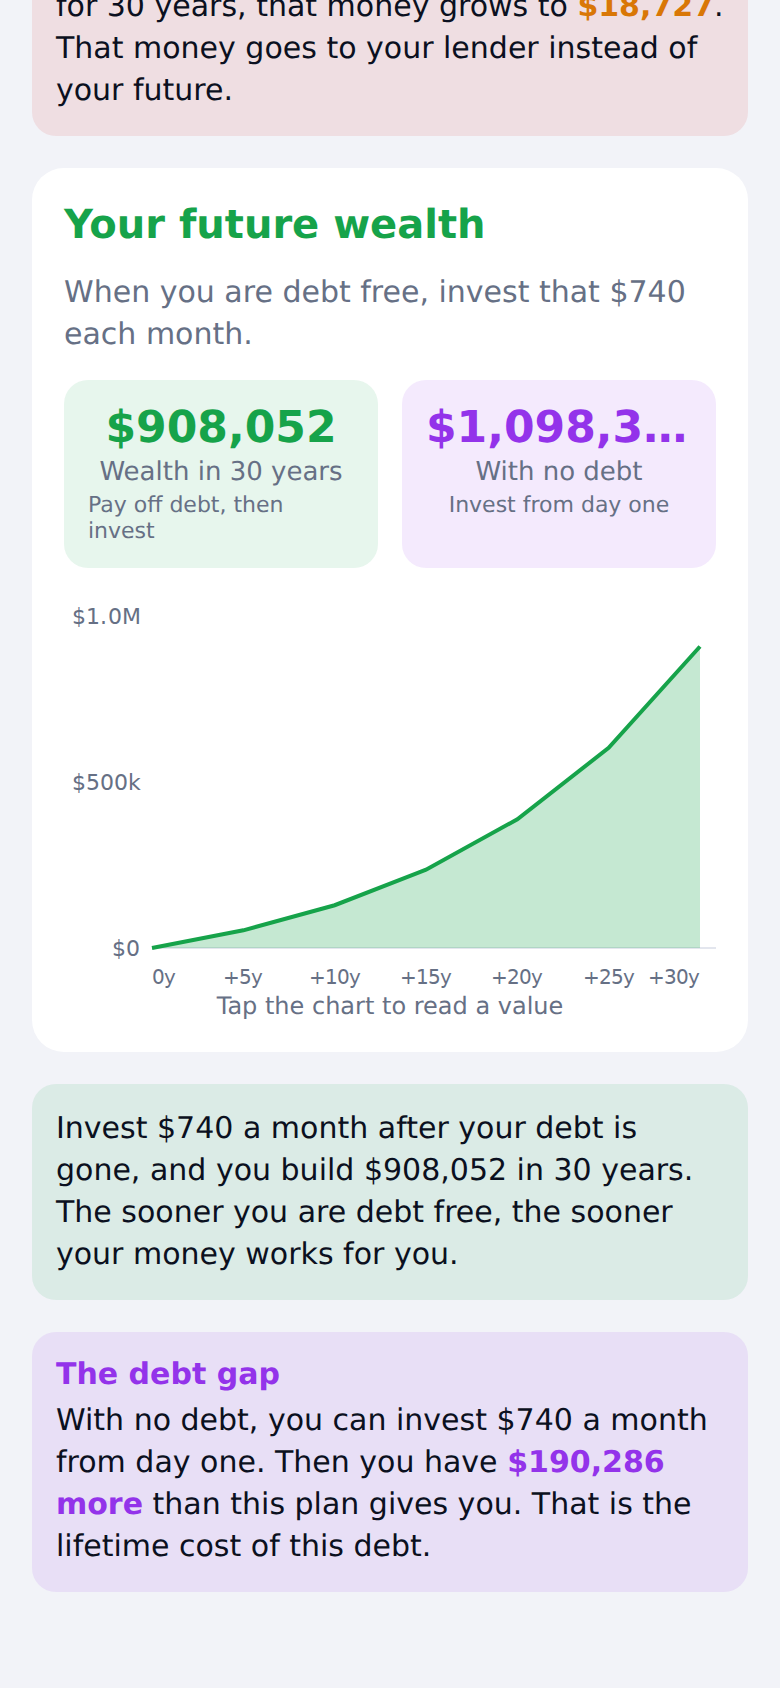
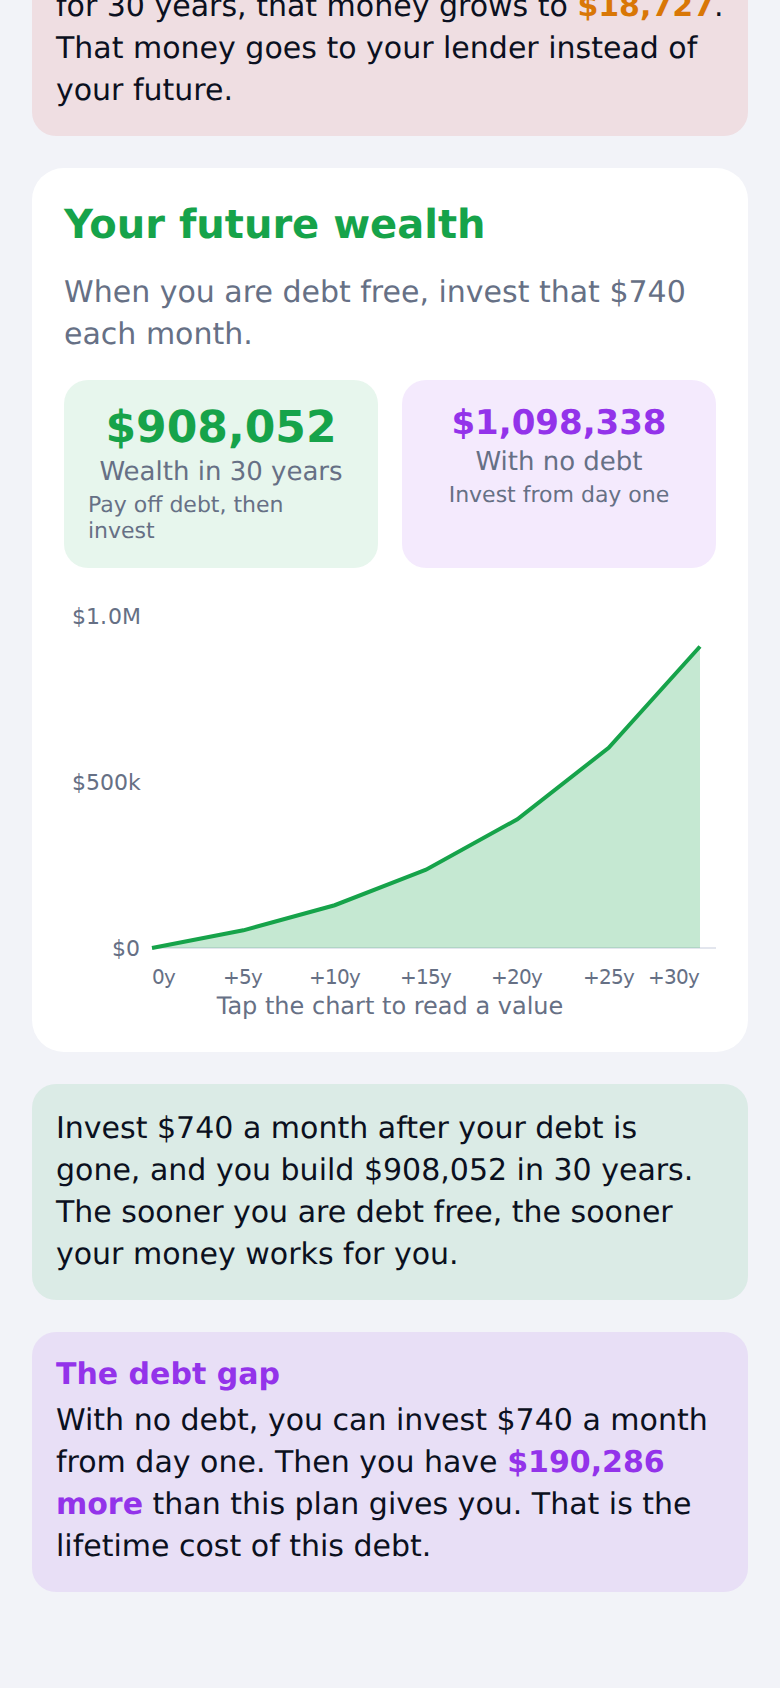
fix: show the full value in a stat card on the web, and link the author
On iOS and Android, a stat card makes a long value smaller so that it
fits. The web ignores that setting and cut the value, for example
"$1,098,3...". On the web, the font size now changes with the length of
the value. The invest screenshot on the homepage now shows the full
value.

The name "Luke Boyle" on the homepage now links to lukeboyle.com.

Changed region(s): [[0.5538, 0.2156, 0.8615, 0.3081]]

diff --git a/site/src/components/About.tsx b/site/src/components/About.tsx
@@ -2,7 +2,7 @@ import Link from 'next/link'
 
 import { GridPattern } from '@/components/GridPattern'
 import { SectionHeading } from '@/components/SectionHeading'
-import { KOFI_URL, REPO_URL } from '@/lib/site'
+import { AUTHOR_URL, KOFI_URL, REPO_URL } from '@/lib/site'
 
 function CupIcon(props: React.ComponentPropsWithoutRef<'svg'>) {
   return (
@@ -39,7 +39,10 @@ export function About() {
               your phone. The web app keeps it in the link.
             </p>
             <p className="mt-4 text-lg tracking-tight text-slate-700">
-              Luke Boyle makes Debt Destroyer. It is free for anyone to use.
+              <a href={AUTHOR_URL} className="font-medium text-brand-600 hover:text-brand-800">
+                Luke Boyle
+              </a>{' '}
+              makes Debt Destroyer. It is free for anyone to use.
               The source code is on GitHub, at{' '}
               <Link href={REPO_URL} className="font-medium text-brand-600 hover:text-brand-800">
                 github.com/3stacks/debt-destroyer

diff --git a/mobile/src/components/ui.tsx b/mobile/src/components/ui.tsx
@@ -81,12 +81,19 @@ function toneColors(c: Colors, tone: Tone): { fg: string; bg: string } {
   }
 }
 
+// iOS and Android shrink a long value with adjustsFontSizeToFit. The web
+// ignores that prop and cuts the text, so make the font smaller there.
+function fitOnWeb(value: string) {
+  if (Platform.OS !== 'web' || value.length <= 8) return null
+  return { fontSize: Math.max(14, Math.floor((22 * 8) / value.length)) }
+}
+
 export function Stat({ value, label, tone = 'neutral', note }: { value: string; label: string; tone?: Tone; note?: string }) {
   const c = useColors()
   const t = toneColors(c, tone)
   return (
     <View style={[styles.stat, { backgroundColor: t.bg }]}>
-      <Text style={[styles.statValue, { color: t.fg }]} adjustsFontSizeToFit numberOfLines={1}>
+      <Text style={[styles.statValue, { color: t.fg }, fitOnWeb(value)]} adjustsFontSizeToFit numberOfLines={1}>
         {value}
       </Text>
       <Text style={[styles.statLabel, { color: c.muted }]}>{label}</Text>

diff --git a/site/src/components/Footer.tsx b/site/src/components/Footer.tsx
@@ -1,7 +1,7 @@
 import Link from 'next/link'
 
 import { GridPattern } from '@/components/GridPattern'
-import { APP_STORE_URL, APP_URL, KOFI_URL, PLAY_STORE_URL, REPO_URL } from '@/lib/site'
+import { APP_STORE_URL, APP_URL, AUTHOR_URL, KOFI_URL, PLAY_STORE_URL, REPO_URL } from '@/lib/site'
 
 export function Footer() {
   return (
@@ -18,7 +18,12 @@ export function Footer() {
           <Link href={REPO_URL}>GitHub</Link>
           <Link href={KOFI_URL}>Ko-fi</Link>
         </nav>
-        <p>Made by Luke Boyle. Free to use. This app is not financial advice.</p>
+        <p>
+          Made by{' '}
+          <a href={AUTHOR_URL} className="underline hover:text-slate-900">
+            Luke Boyle
+          </a>
+          . Free to use. This app is not financial advice.</p>
       </div>
     </footer>
   )

diff --git a/site/src/lib/site.ts b/site/src/lib/site.ts
@@ -1,5 +1,6 @@
 export const APP_URL = '/app/'
 export const REPO_URL = 'https://github.com/3stacks/debt-destroyer'
+export const AUTHOR_URL = 'https://lukeboyle.com'
 export const KOFI_URL = 'https://ko-fi.com/lukeboyle'
 
 /**
